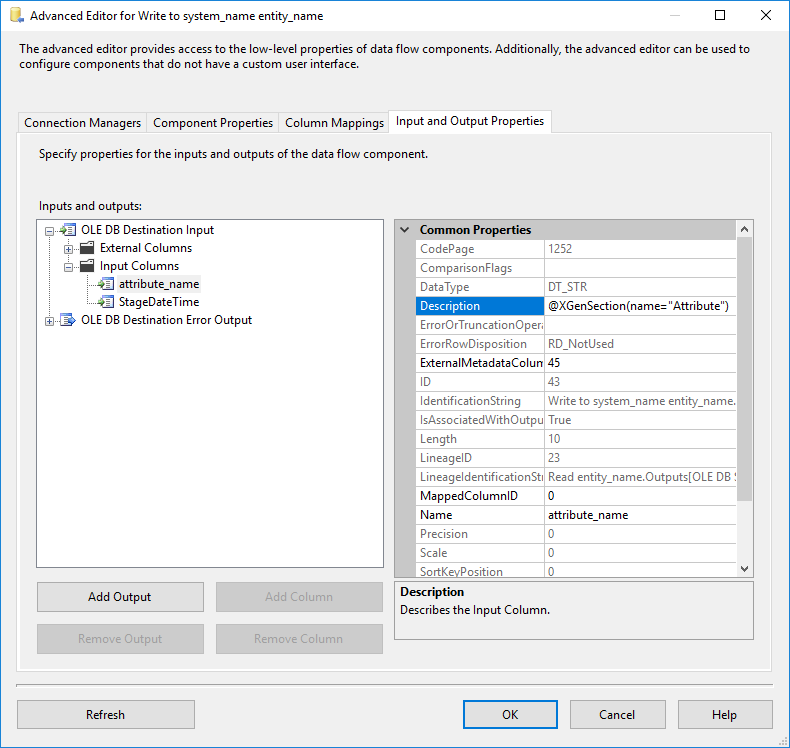
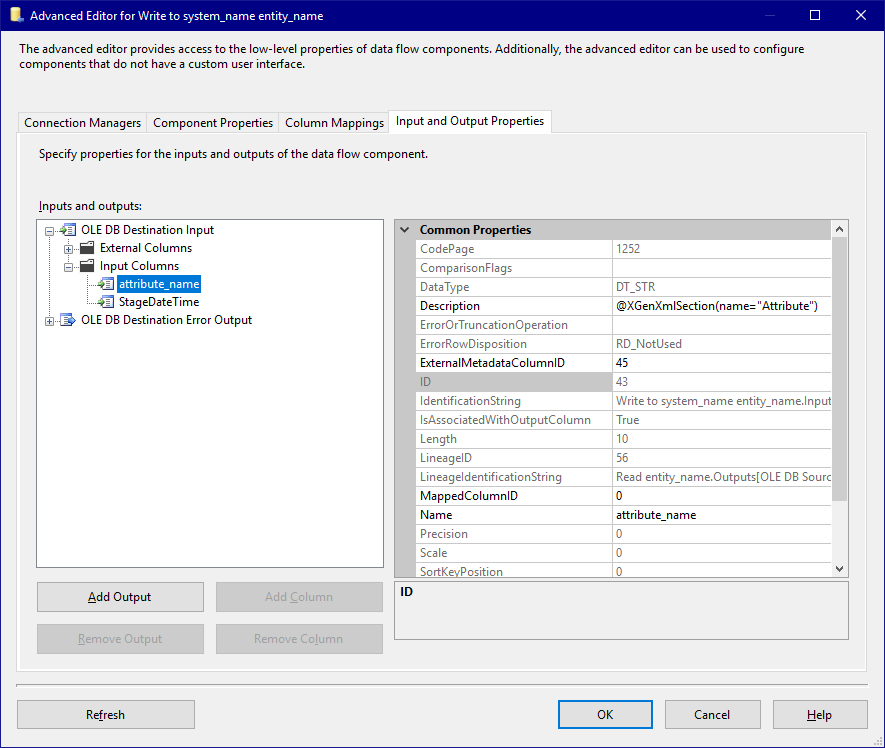
updated SQL and SSIS staging example

diff --git a/Documentation/docs/Examples/Microsoft_SSIS/Simple_staging.md b/Documentation/docs/Examples/Microsoft_SSIS/Simple_staging.md
@@ -7,12 +7,10 @@ For this stage package the [Source model](../Model/Source_model) is used.
 
 ### stg_load_system_name_entity_name.dtsx
 
-A SSIS package is created with the following components (note the @XGenSection annotations in the description fields of various components):
+A SSIS package is created with the following components (note the @XGenXmlSection annotations in the description fields of various components):
 
 #### Control Flow
-We have a staging package which needs to be created for every entity in our model. Because of this we want the create a section using the Control Flow of the SSIS package. So we click on the grey area of the package and add the annotation `@XGenSection(name="stgPackage")` in the `Description` property.
-
-On the Control Flow we have a Data Flow Task with the name 'Load entity_name'. In the configuration for CrossGenerate we will bind the `entity` elements on the `stgPackage` section so the `entity_name` is resolved correctly.
+On the Control Flow we have a Data Flow Task with the name 'Load System_name Entity_name'. During generation this will be resolved to the proper system and entity names.
 
 [![Template Control Flow](img/control_flow.png)](img/control_flow.png)
 
@@ -22,7 +20,7 @@ In the DataFlow task of this template we have:
 - A Derive Column component to add the StageDateTime as a column to the output
 - A OLE DB Destination component to write the data to the Destination table.
 
-Here the `system_name` and `entity_name` placeholders will be resolved automatically, since these component are withing the `stgPackage` section.
+Again the `system_name` and `entity_name` placeholders are used.
 
 ![Template Data Flow](img/dataflow.png)
 
@@ -40,8 +38,8 @@ In the 'Columns' tab here we also don't need to set anything specific for CrossG
 ![Template Source Columns](img/source_columns.png)
 
 ###### Input and Output Properties - External Columns
-When opening the Advanced Editor for the source component we can go to the 'Input and Output Properties' tab to find the 'attribute_name' column in the 'External Columns' list.
-The defined output column needs to be repeated for every attribute in our model, so we set the section named 'Attribute' on the [External Columns/attribute_name] element. This way CrossGenerate knows which part in the template to repeat (in this case the [attribute_name] column).
+When opening the Advanced Editor for the source component we can go to the 'Input and Output Properties' tab to find the 'Attribute_name' column in the 'External Columns' list.
+The defined output column needs to be repeated for every attribute in our model, so we set the section named 'Attribute' on the [External Columns/attribute_name] element. This way CrossGenerate knows which part in the template to repeat (in this case the [Attribute_name] column).
 
 ![Template Source Input and Output Properties - External Columns](img/source_adv_external_columns.png)
 
@@ -54,6 +52,11 @@ We do the same for the 'Output Columns', since this column also needs to be repe
 And again the same of the 'OLDE DB Source Error Output' output columns.
 
 ![Template Source Input and Output Properties - Error Output Columns](img/source_adv_error_columns.png)
+
+##### Derived column
+The derived colum transformation does not need any specific configuration for Crossgenerate.
+
+![Template Source Columns](img/derived_column.png)
 
 ##### Destination
 ###### Connection Manager
@@ -153,12 +156,29 @@ As can be seen in the config below, there is a section defined named `Attribute`
 This section is defined in the config since the input columns on the OLE DB Destination input cannot be given a section annotation in the IDE.
 
 ```xml
-<Section
+<XmlSection
   name="Attribute" 
   templateXPath="//input[@name='OLE DB Destination Input']/inputColumns/inputColumn[@cachedName='attribute_name']"
 />
 ```
+#### Configure binding
+The sections in the template need to be bound to parts in the model. Since the complete ssis package needs to be generated for each entity in the model. The templates `rootSectionName` is named `Entity`. The section(s) named Entity are mapped to entity in the model. The section(s) named Attribute are mapped to attribute. Mapping template sections to parts of the model is done using `SectionBinding`.
+For each SectionModelBinding, additional placeholders can be specified to access other parts of the model from within that section scope.
 
+```xml
+<Binding>
+    <SectionModelBinding section="Entity" modelXPath="/modeldefinition/system/mappableObjects/entity" placeholderName="Entity">
+      <Placeholders>
+        <Placeholder name="System" modelXPath="../.." />
+      </Placeholders>
+      <SectionModelBinding section="Attribute" modelXPath="attributes/attribute" placeholderName="Attribute">
+        <Placeholders>
+          <Placeholder name="Entity" modelXPath="../.." />
+        </Placeholders>
+      </SectionModelBinding>      
+    </SectionModelBinding>
+  </Binding>
+```
 ### Full config example
 
 ```xml
@@ -183,16 +203,16 @@ This section is defined in the config since the input columns on the OLE DB Dest
       <ModelAttributeInjection modelXPath="//attribute[@datatype='uniqueidentifier']" targetAttribute="etldatatype" targetValue="guid"/>
     </ModelAttributeInjections>
   </Model>
-  <Template rootSectionName="StgPackage">
+  <XmlTemplate rootSectionName="StgPackage">
     <!-- Define the FileFormat, here all attributes with the name 'description' are scanned for annotations. -->
-    <FileFormat templateType="xml" currentAccessor="_" commentNodeXPath="@*[lower-case(local-name())='description']" annotationPrefix="@XGen" annotationArgsPrefix="(" annotationArgsSuffix=")" />
+    <FileFormat currentAccessor="_" commentNodeXPath="@description" annotationPrefix="@XGen" annotationArgsPrefix="(" annotationArgsSuffix=")" />
     <!-- Output a SSIS package per element of the root section, so 1 package per entity. -->
     <Output type="output_per_element" />
-    <Sections>
+    <XmlSections>
       <!-- The input columns of the 'OLE DB Destination Input' need to be repeated for every attribute. -->
       <!-- This element doesn't have a 'Description' attribute, so we need to create this section in this config file. -->
-      <Section name="Attribute" templateXPath="//input[@name='OLE DB Destination Input']/inputColumns/inputColumn[@cachedName='attribute_name']"/>
-    </Sections>
+      <XmlSection name="Attribute" templateXPath="//input[@name='OLE DB Destination Input']/inputColumns/inputColumn[@cachedName='attribute_name']"/>
+    </XmlSections>
     <TemplateAttributeInjections>
       <!-- Inject an attribute for the scale, precision, cachedScale & cachedPrecision on elements where the name is 'attribute_name'. -->
       <TemplateAttributeInjection templateXPath="//*[@name='attribute_name']" attributeName="scale" attributeValue=""/>
@@ -214,7 +234,7 @@ This section is defined in the config since the input columns on the OLE DB Dest
       <TemplatePlaceholderInjection templateXPath="//*[@name='attribute_name']/@cachedScale"  modelNode="scale" scope="current" />
       <TemplatePlaceholderInjection templateXPath="//*[@name='attribute_name']/@cachedCodePage"  modelNode="codePage" scope="current" />
     </TemplatePlaceholderInjections>
-  </Template>
+  </XmlTemplate>
  <Binding>
    <!-- Create a binding between the 'StgPackage' sections in the template and the 'entity' elements in the model. -->
    <SectionModelBinding section="StgPackage" modelXPath="/modeldefinition/system/mappableObjects/entity" placeholderName="entity">

diff --git a/Documentation/docs/Examples/SQL/Simple_staging.md b/Documentation/docs/Examples/SQL/Simple_staging.md
@@ -5,15 +5,15 @@ In this example we will be generating staging tables for each entity defined in 
 
 ## Template
 We create a template for creating a staging table, in the file name we use the 'system_name' placeholder to have the system name in the resulting output file.
-We define the `@XGenSection` annotation to define the 'CreateTable' section to repeat for each table.
+We define the `@XGenTextSection` annotation to define the 'CreateTable' section to repeat for each table.
 We also define the section named 'TableColumn' to repeat for each column in the table.
 
 ### Staging_Tables_system_name.sql
 
 ``` sql
--- @XGenSection(name="CreateTable" literalOnLastLine="GO")
+-- @XGenTextSection(name="CreateTable" literalOnLastLine="GO")
 CREATE TABLE [system_name].[entity_name] (
-  -- @XGenSection(name="TableColumn")
+  -- @XGenTextSection(name="TableColumn")
   [attribute_name]           attribute_fulldatatype        NULL,
   [StageDateTime]            datetime2(2)              NOT NULL  
 );
